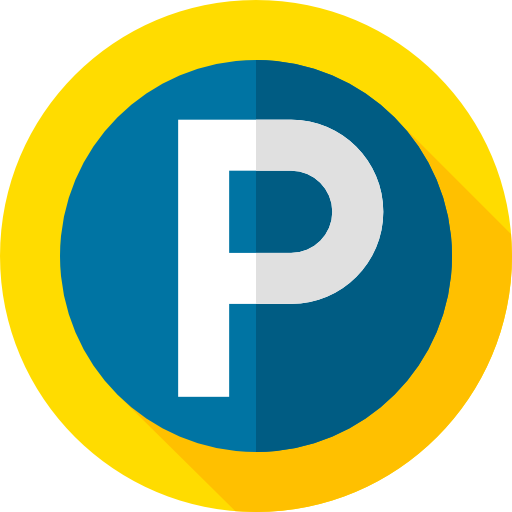
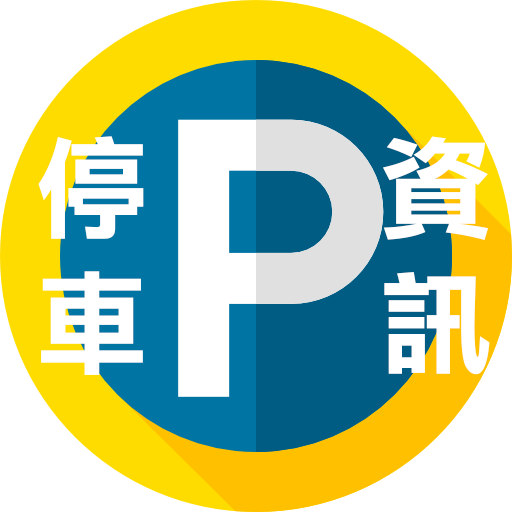
1. 停車場圖片更換，annimatioon動畫新增

diff --git a/Fishery/ClientApp/src/css/home.css b/Fishery/ClientApp/src/css/home.css
@@ -7,13 +7,37 @@ body{
 .homepage .park-btn{
     width: 10%;
     max-width: 120px;
-    position: fixed;
+    position: absolute;
     z-index: 99;
     top: 50px;
     left: 10px;
+    animation-name: bouncing;
+    animation-duration:2s;
+    animation-iteration-count:infinite;
+    animation-timing-function: ease-in-out;
 }
 .homepage .park-btn img{
     width: 100%;
+}
+@keyframes bouncing {
+    0% {
+        top: 50px;
+    }
+    50% {
+        top: 50px;
+    }
+    62.5%{
+        top: 40px;
+    }
+    75%{
+        top: 50px;
+    }
+    87.5%{
+        top: 45px;
+    }
+    100%{
+        top: 50px;
+    }
 }
 @media screen and (min-width: 768px) and (max-width: 1024px){
     .homepage{
@@ -22,6 +46,31 @@ body{
     .homepage .park-btn{
         max-width: 120px;
         top: 60px;
+    }
+    @keyframes bouncing {
+        0% {
+            top: 60px;
+        }
+
+        50% {
+            top: 60px;
+        }
+
+        62.5% {
+            top: 50px;
+        }
+
+        75% {
+            top: 60px;
+        }
+
+        87.5% {
+            top: 55px;
+        }
+
+        100% {
+            top: 60px;
+        }
     }
 }
 @media screen and (min-width: 1080px) and (max-width: 1080px){
